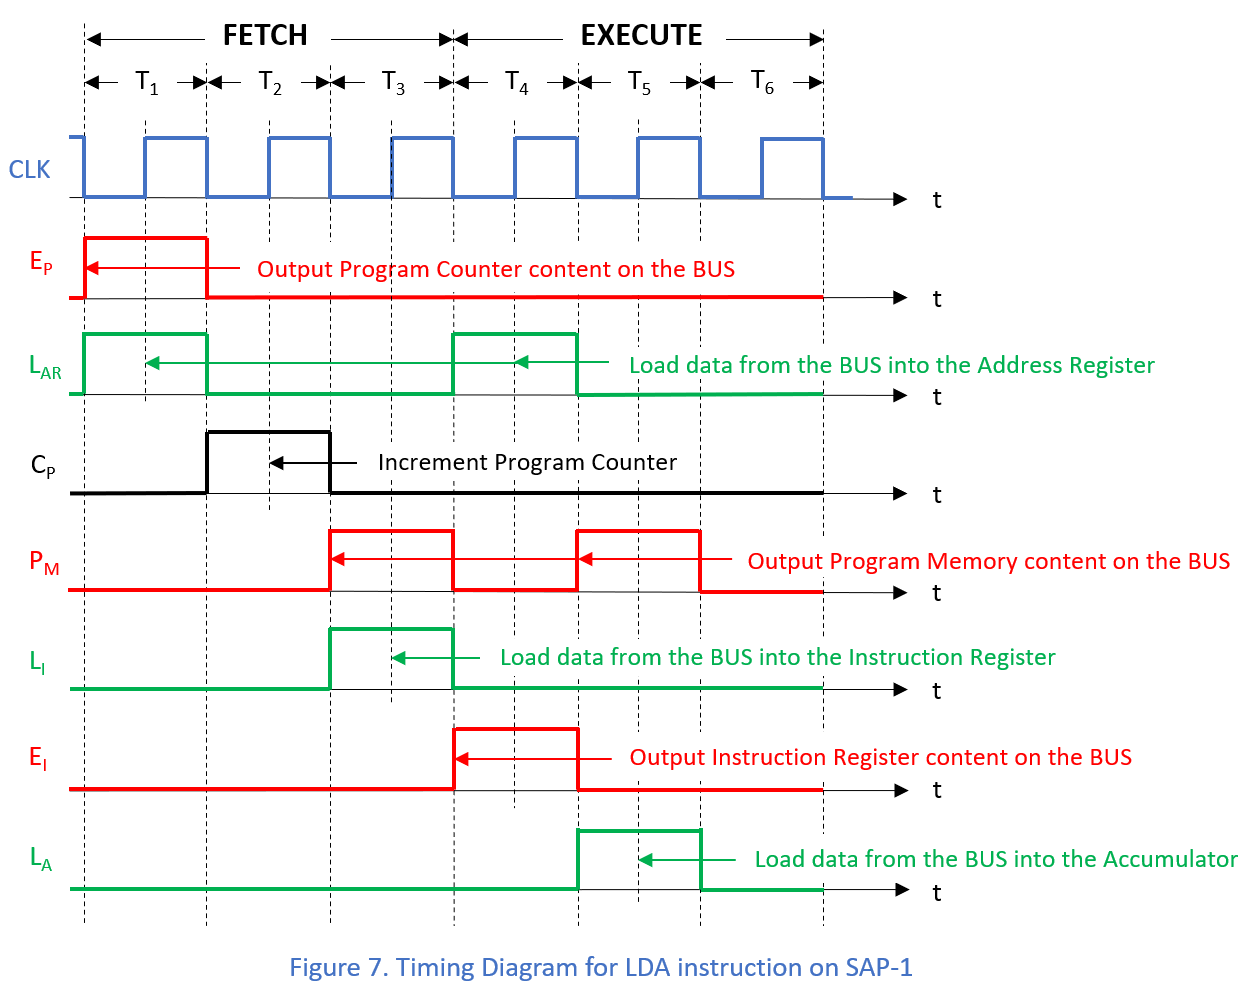
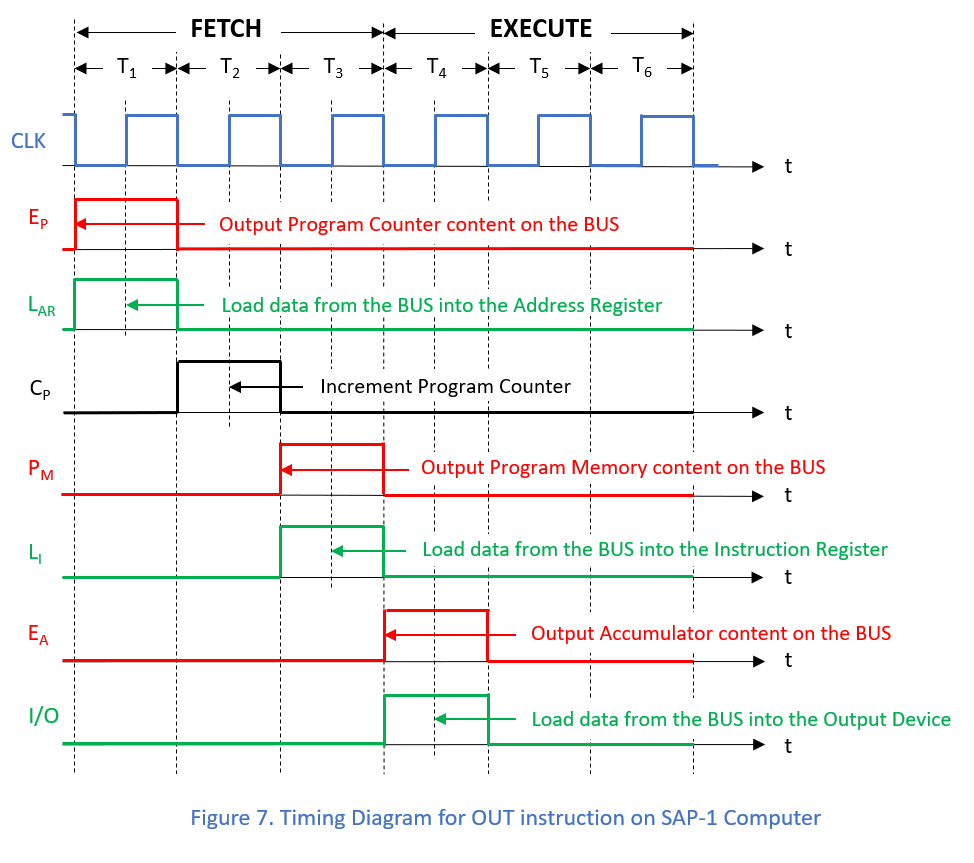
modified:   Pictures/Figure7.png modified:   README.md modified:   Tables/Table5.png

diff --git a/README.md b/README.md
@@ -252,18 +252,9 @@ Example: OUT *
 
 Transfers the numeric value stored in the Accumulator to Output Port. This instruction has no parameter.
 
-For the ISAP-1 computer this instruction has parameter [p]. So, 16 output ports can be accessed.
-Binary form:  1110 pppp \
-Operation:  PORT (p) ← A \
-Example: OUT 1h
-
 The timing diagram for the OUT instruction implemented on SAP-1 Computer is as follows:
 
-![ Figure 13 ](/Pictures/Figure13.png)
-
-The timing diagram for the OUT instruction implemented on ISAP-1 Computer is as follows:
-
-![ Figure 14 ](/Pictures/Figure14.png)
+![ Figure 7 ](/Pictures/Figure7.png)
 
 We can summarize the value of the control signals over time shown in these diagrams in the following tables:
 
@@ -283,25 +274,6 @@ The Boolean equations for the signals that are active when the OUT instruction i
 -	LI = T3
 -	EA = OUT * T4
 -	I/O = OUT * T4
-
-The Boolean equations for the signals that are active when the OUT instruction is executed for computer ISAP-1 are:
--	EP = T1
--	LAR = T1 + OUT * T3
--	PM = T2
--	LI = T2
--	CP = T2
--	EI = OUT * T3
--	EA = OUT * T4
--	I/O = OUT * T4
--	R/W = OUT * T4
--	NEXT = OUT * T5 + OUT * T6 + OUT * T7 + OUT * T8
-
-Using the NEXT signal moves to the next instruction without losing micro-steps. This variable microcode length system for the OUT instruction will use 4/5=0.8 which is 80% of the time compared to 4/8=0.5 and 50% if we do not use this option.
-
-Use of the NEXT signal is optional. The simplified version of this instruction can also be used:
-- NEXT = OUT * T5
-
-In this variant, if the microprogram reaches one of the steps T6 - T8, it will not automatically jump to the next instruction and the time related to steps T6 - T8 is lost. This variant is useful because it reduces the number of logic gates used in the implementation of the Control Unit.
 
 *If we implement the Control Block using Combinational Logic we will use these equations.*
 
